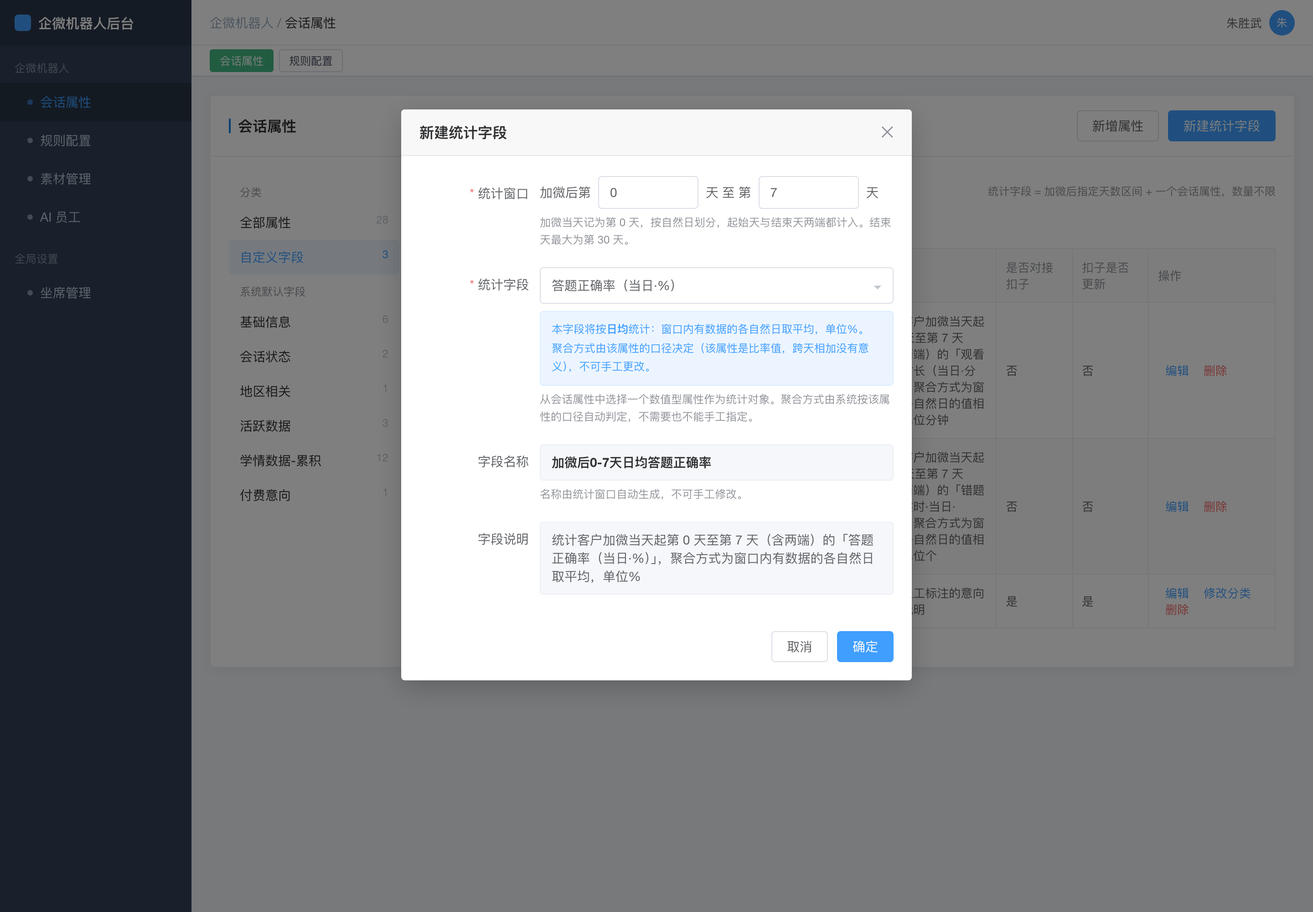
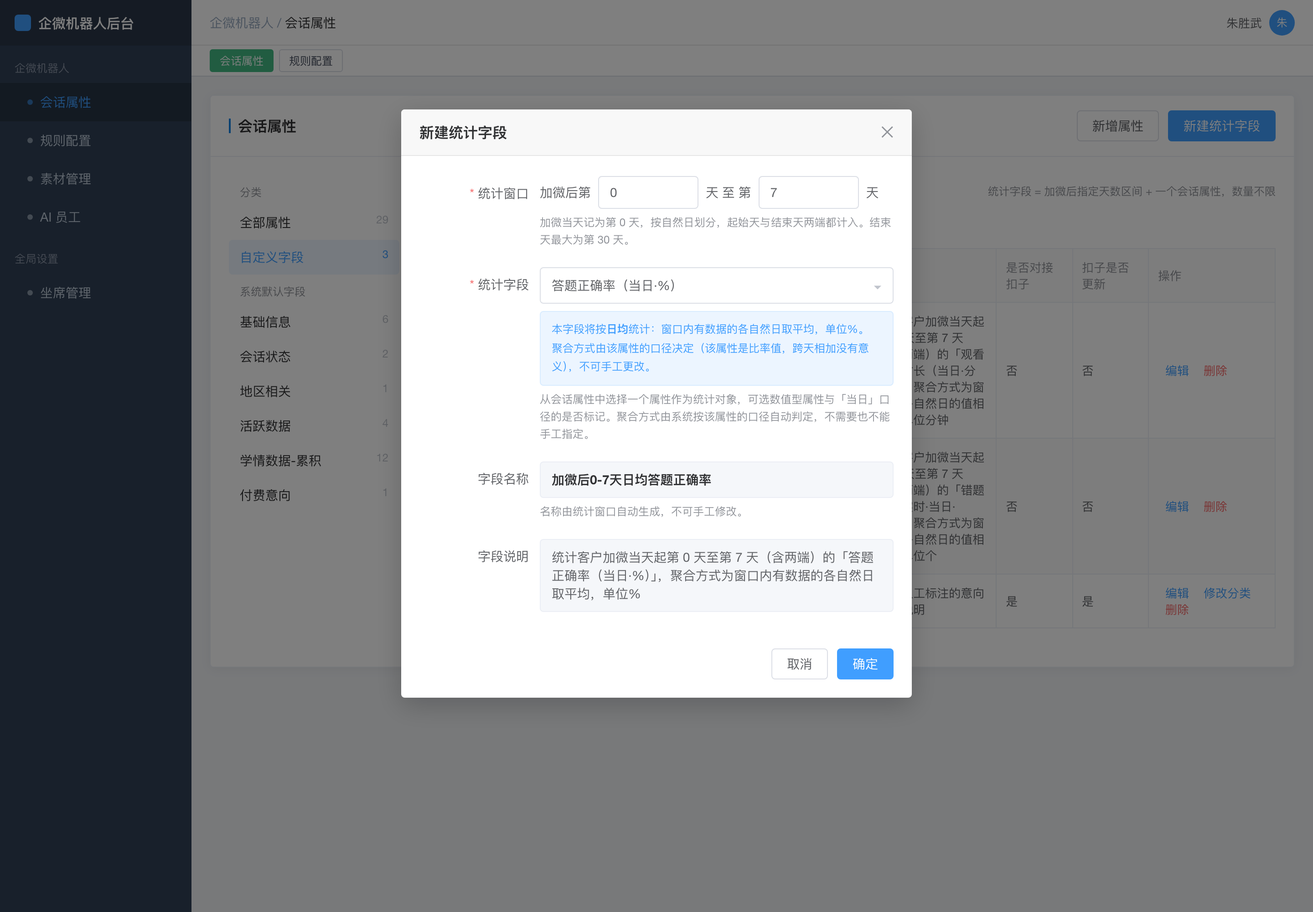
chore: 同步「自定义统计周期学习时长字段」原型与文档

Changed region(s): [[0.375, 0.465, 0.6875, 0.651], [0.2812, 0.682, 0.7188, 0.775], [0.4375, 0.434, 0.6875, 0.465]]

diff --git a/自定义统计周期学习时长字段/index.html b/自定义统计周期学习时长字段/index.html
@@ -393,7 +393,7 @@ table.el tbody tr:hover { background: #f5f7fa; }
           <div class="err-msg" id="errTarget">请选择统计字段</div>
           <div class="err-msg" id="errDup">该组合已存在字段，请勿重复创建</div>
           <div class="err-msg" id="errName">生成的名称已被占用</div>
-          <div class="hint">从会话属性中选择一个数值型属性作为统计对象。聚合方式由系统按该属性的口径自动判定，不需要也不能手工指定。</div>
+          <div class="hint">从会话属性中选择一个属性作为统计对象，可选数值型属性与「当日」口径的是否标记。聚合方式由系统按该属性的口径自动判定，不需要也不能手工指定。</div>
         </div>
       </div>
 
@@ -477,12 +477,14 @@ var seq = 12;
 
 /* 窗口聚合方式由所选会话属性的口径决定，运营不配置 */
 var AGG = {
-  sum:   { word: '累计', text: '窗口内各自然日的值相加',                 why: '该属性是每日 0 点重置的当日增量值' },
-  delta: { word: '新增', text: '窗口结束时的值减去窗口开始前一日的值',   why: '该属性是只增不减的累计快照值，直接相加会重复计算' },
-  avg:   { word: '日均', text: '窗口内有数据的各自然日取平均',           why: '该属性是比率值，跨天相加没有意义' }
+  sum:   { word: '累计', label: '累计',   text: '窗口内各自然日的值相加',                 why: '该属性是每日 0 点重置的当日增量值' },
+  delta: { word: '新增', label: '新增',   text: '窗口结束时的值减去窗口开始前一日的值',   why: '该属性是只增不减的累计快照值，直接相加会重复计算' },
+  avg:   { word: '日均', label: '日均',   text: '窗口内有数据的各自然日取平均',           why: '该属性是比率值，跨天相加没有意义' },
+  days:  { word: '天数', label: '计天数', text: '窗口内该标记为「是」的自然日天数',       why: '该属性是每日重置的是否标记，数天数才有意义', suffix: true }
 };
 
-/* 可作为统计对象的会话属性：全部数值型属性，含当日增量、累计快照与比率三类口径 */
+/* 可作为统计对象的会话属性：全部数值型属性（含当日增量、累计快照、比率三类口径）
+   与「当日」口径的布尔标记属性（按窗口数天数） */
 var ATTRS = [
   { k:'video_dur_d',   cat:'study',    name:'观看视频时长（当日·分钟）',     short:'观看视频时长',   unit:'分钟', agg:'sum',   desc:'客户观看知识点视频产生的时长，每日 0 点重置' },
   { k:'problem_dur_d', cat:'study',    name:'答题时长（当日·分钟）',         short:'答题时长',       unit:'分钟', agg:'sum',   desc:'客户做题产生的时长，每日 0 点重置' },
@@ -494,7 +496,9 @@ var ATTRS = [
   { k:'video_cnt_d',   cat:'study',    name:'观看视频课数（当日·个）',       short:'观看视频课数',   unit:'个',   agg:'sum',   desc:'客户当日有学习记录的去重知识点数' },
   { k:'right_rate_d',  cat:'study',    name:'答题正确率（当日·%）',          short:'答题正确率',     unit:'%',    agg:'avg',   desc:'客户当日答题正确率，当日没做题时为空' },
   { k:'video_dur_t',   cat:'study',    name:'观看视频时长（上线后累计·分钟）', short:'观看视频时长',  unit:'分钟', agg:'delta', desc:'客户上线后累计观看视频时长，只增不减' },
+  { k:'has_learn_d',   cat:'study',    name:'当日是否有学习（布尔）',        short:'学习',           unit:'天',   agg:'days',  desc:'客户当日是否产生学习行为，每日 0 点重置' },
   { k:'app_cnt_d',     cat:'activity', name:'打开 APP 次数（当日·次）',      short:'打开 APP 次数',  unit:'次',   agg:'sum',   desc:'客户当日前后台切换次数，每日 0 点重置' },
+  { k:'has_open_d',    cat:'activity', name:'当日是否打开 APP（布尔）',      short:'打开 APP',       unit:'天',   agg:'days',  desc:'客户当日是否打开过 APP，每日 0 点重置' },
   { k:'active_days',   cat:'activity', name:'累计活跃天数（天）',            short:'累计活跃天数',   unit:'天',   agg:'delta', desc:'客户历史累计活跃自然日天数，只增不减' },
   { k:'wecom_days',    cat:'base',     name:'加微天数（天）',                short:'加微天数',       unit:'天',   agg:'delta', desc:'加微当天起算至今的自然日天数' },
   { k:'intro_cnt_d',   cat:'pay',      name:'产介页打开次数（近1日·次）',    short:'产介页打开次数', unit:'次',   agg:'sum',   desc:'客户近 1 日打开产品介绍页的次数' }
@@ -505,18 +509,18 @@ var fields = [
   { id: 2, cat: 'custom', stat: true, start: 0, end: 7, attr: 'wrong_cnt_d',  key: '00000000000000000012', rules: 0 },
   { id: 3, cat: 'custom', stat: false, name: '意向等级备注', type: '字符串', key: '00000000000000000009', desc: '坐席人工标注的意向等级说明', coze: '是', cozeUpd: '是' }
 ];
-/* 非数值型预置属性；数值型的由 ATTRS 统一提供，保证「可选统计对象」与属性列表口径一致 */
+/* 不可作为统计对象的预置属性；可选的那些由 ATTRS 统一提供，保证两处口径一致 */
 var presetsExtra = {
   base:     [ ['客户昵称','字符串','客户在企微中的展示昵称'], ['年级','字符串','客户所处年级'], ['学段','字符串','客户所处学段'], ['注册时间','日期','客户注册洋葱账号的时间'], ['加微时间','日期','客户与坐席建立好友关系的时间'] ],
   session:  [ ['转人工','布尔','当前会话是否已转人工'], ['最近客户消息时间','数字','距离客户最近一条消息的分钟数'] ],
   region:   [ ['城市分线','字符串','客户所在城市的分线层级'] ],
-  activity: [ ['近7日是否活跃','布尔','近 7 个自然日内是否有访问'] ],
-  study:    [ ['当日是否有学习','布尔','客户当日是否产生学习行为'], ['最近错题明细','字符串','客户最近答错的题目明细'] ],
+  activity: [ ['近7日是否活跃','布尔','近 7 个自然日内是否有访问，滚动窗口口径'] ],
+  study:    [ ['最近错题明细','字符串','客户最近答错的题目明细'] ],
   pay:      []
 };
 var presets = (function(){
   var m = { base:[], session:[], region:[], activity:[], study:[], pay:[] };
-  ATTRS.forEach(function(a){ m[a.cat].push([a.name, '数字', a.desc]); });
+  ATTRS.forEach(function(a){ m[a.cat].push([a.name, a.agg === 'days' ? '布尔' : '数字', a.desc]); });
   for (var c in presetsExtra) presetsExtra[c].forEach(function(r){ m[c].push(r); });
   return m;
 })();
@@ -536,7 +540,8 @@ function sigOf(start, end, attr){ return start + '-' + end + '|' + (attr || '');
 function statName(f){
   var a = attrOf(f.attr);
   if (!a) return '';
-  return '加微后' + f.start + '-' + f.end + '天' + AGG[a.agg].word + a.short;
+  var g = AGG[a.agg], w = '加微后' + f.start + '-' + f.end + '天';
+  return g.suffix ? (w + a.short + g.word) : (w + g.word + a.short);
 }
 function statDesc(f){
   var a = attrOf(f.attr);
@@ -657,7 +662,7 @@ function renderTargetList(){
   var kw = document.getElementById('tpSearch').value.trim();
   var el = document.getElementById('tpList');
   if (tpCat === 'custom') {
-    el.innerHTML = '<div class="vp-empty">自定义字段中暂无数值型属性可选。<br/>统计字段本身不能再作为统计对象。</div>';
+    el.innerHTML = '<div class="vp-empty">自定义字段中暂无可作为统计对象的属性。<br/>统计字段本身不能再作为统计对象。</div>';
     return;
   }
   var items = ATTRS.filter(function(a){ return a.cat === tpCat && a.name.indexOf(kw) >= 0; });
@@ -665,7 +670,7 @@ function renderTargetList(){
   el.innerHTML = items.map(function(a){
     return '<div class="vp-item' + (a.k === picked ? ' sel' : '') + '" onclick="pickTarget(\'' + a.k + '\')">'
          + a.name
-         + '<div class="vp-desc">' + a.desc + '｜按窗口' + AGG[a.agg].word + '</div></div>';
+         + '<div class="vp-desc">' + a.desc + '｜按窗口' + AGG[a.agg].label + '</div></div>';
   }).join('');
 }
 function pickTarget(k){
@@ -682,7 +687,7 @@ function renderTargetPicked(){
   var box = document.getElementById('aggBox');
   box.classList.toggle('show', !!a);
   if (a) {
-    box.innerHTML = '本字段将按<b>' + AGG[a.agg].word + '</b>统计：' + AGG[a.agg].text
+    box.innerHTML = '本字段将按<b>' + AGG[a.agg].label + '</b>统计：' + AGG[a.agg].text
                   + '，单位' + a.unit + '。<br/>聚合方式由该属性的口径决定（' + AGG[a.agg].why + '），不可手工更改。';
   }
 }

diff --git a/自定义统计周期学习时长字段/PRD-自定义统计周期学习时长字段.md b/自定义统计周期学习时长字段/PRD-自定义统计周期学习时长字段.md
@@ -6,7 +6,7 @@
 |--------|----------|----------|--------|
 | v1.0 | 2026-09-01 | 初稿 | AI PRD Writer |
 | v1.1 | 2026-09-07 | 统计口径从固定的「全部学习时长」改为可勾选组合：新增「统计字段」多选项，支持观看视频时长、答题时长、看题型时长任意组合求和 | AI PRD Writer |
-| v1.2 | 2026-09-07 | 统计对象改为直接从会话属性中选取：统计字段由三项时长的勾选组合，改为在会话属性中单选一个数值型属性，窗口聚合方式由该属性口径自动判定 | AI PRD Writer |
+| v1.2 | 2026-09-07 | 统计对象改为直接从会话属性中选取：统计字段由三项时长的勾选组合，改为在会话属性中单选一个属性，可选范围为全部数值型属性与「当日」口径的是否标记，窗口聚合方式由该属性口径自动判定 | AI PRD Writer |
 
 ## 二、需求概述
 
@@ -20,11 +20,12 @@
 |------|------|
 | 加微时间 | 客户与坐席建立企微好友关系的时刻 |
 | 统计窗口 | 以加微当天为第 0 天起算的一段自然日区间，由起始天与结束天两个数字确定，两端都包含在内 |
-| 统计对象 | 运营为一个统计字段选定的那个会话属性，取值范围为全部数值型会话属性 |
-| 窗口聚合方式 | 把统计对象在窗口内的表现折算成一个数的算法，由统计对象自身的口径决定，分累计、新增、日均三种，运营不参与配置 |
+| 统计对象 | 运营为一个统计字段选定的那个会话属性，取值范围为全部数值型会话属性与「当日」口径的是否标记属性 |
+| 窗口聚合方式 | 把统计对象在窗口内的表现折算成一个数的算法，由统计对象自身的口径决定，分累计、新增、日均、天数四种，运营不参与配置 |
 | 当日增量型 | 每日零点重置、只反映当天新增量的会话属性，如「观看视频时长（当日·分钟）」，窗口聚合方式为累计 |
 | 累计快照型 | 只增不减的历史累计会话属性，如「观看视频时长（上线后累计·分钟）」，窗口聚合方式为新增 |
 | 比率型 | 取值为百分比的会话属性，如「答题正确率（当日·%）」，窗口聚合方式为日均 |
+| 日标记型 | 每日零点重置、取值为是或否的会话属性，如「当日是否有学习（布尔）」，窗口聚合方式为天数 |
 | 统计字段 | 本次新增的一类会话属性，取值由系统按「统计窗口 + 统计对象」自动计算得出，运营不能手工填写 |
 | 冻结 | 统计窗口的结束天已过去后，该字段取值不再随新数据变化 |
 
@@ -34,12 +35,12 @@
 |------|----------|----------|
 | 1 | 会话属性页 — 新建入口 | 在页面操作区新增「新建统计字段」入口 |
 | 2 | 会话属性页 — 新建统计字段弹窗 | 新增弹窗，先配统计窗口起止天，再从会话属性中选择统计对象，并实时预览聚合方式、名称与说明 |
-| 3 | 会话属性页 — 统计对象选择面板 | 新增面板，按会话属性分类展示全部数值型属性，支持搜索与单选，每项标注该属性将采用的窗口聚合方式 |
+| 3 | 会话属性页 — 统计对象选择面板 | 新增面板，按会话属性分类展示可作为统计对象的属性，支持搜索与单选，每项标注该属性将采用的窗口聚合方式 |
 | 4 | 会话属性页 — 属性列表 | 统计字段归入「自定义字段」分类展示，字段类型显示为数字，描述中体现统计对象与聚合方式 |
 | 5 | 会话属性页 — 编辑统计字段弹窗 | 新增弹窗，允许修改统计窗口与统计对象，修改前二次确认 |
 | 6 | 会话属性页 — 删除统计字段 | 沿用现有自定义字段删除交互 |
 | 7 | 规则配置页 — 条件变量选择 | 统计字段在条件变量选择面板中可选，操作符沿用现有配置 |
-| 8 | 取值计算 | 新增按「统计窗口 + 统计对象」计算取值的逻辑，含累计、新增、日均三种聚合算法 |
+| 8 | 取值计算 | 新增按「统计窗口 + 统计对象」计算取值的逻辑，含累计、新增、日均、天数四种聚合算法 |
 
 ## 五、业务流程图
 
@@ -48,7 +49,7 @@
 ```mermaid
 flowchart TD
     A[运营在会话属性页点击新建统计字段] --> B[填写统计窗口起始天与结束天]
-    B --> C[从会话属性中选择一个数值型属性作为统计对象]
+    B --> C[从会话属性中选择一个属性作为统计对象]
     C --> D[系统按该属性口径自动判定窗口聚合方式并展示]
     D --> E{窗口与统计对象校验是否通过}
     E -->|未通过| F[弹窗内提示具体错误原因]
@@ -98,25 +99,26 @@ flowchart TD
 5. 选中「答题时长（当日·分钟）」，弹窗内出现蓝色说明「本字段将按累计统计：窗口内各自然日的值相加」，名称预览为「加微后0-7天累计答题时长」。
 6. 改选「观看视频时长（上线后累计·分钟）」，说明变为「按新增统计：窗口结束时的值减去窗口开始前一日的值」，名称变为「加微后0-7天新增观看视频时长」。
 7. 再改选「答题正确率（当日·%）」，说明变为「按日均统计：窗口内有数据的各自然日取平均」，名称变为「加微后0-7天日均答题正确率」。
-8. 重新打开面板并切到「活跃数据」分类，可看到统计对象不限于学情数据，「打开 APP 次数」「累计活跃天数」同样可选。
-9. 选中「打开 APP 次数（当日·次）」后把起始天改为 3、结束天改为 10，观察名称与说明实时刷新。
-10. 把起始天改为 10、结束天改为 3，出现红字「结束天不能早于起始天」，「确定」按钮置灰。
-11. 把结束天改为 45，出现红字「结束天需为 0 到 30 之间的整数」。
-12. 把窗口改为 0 至 7 并选中「观看视频时长（当日·分钟）」，出现红字「该统计窗口与统计字段的组合已存在字段「加微后0-7天累计观看视频时长」，请勿重复创建」。
-13. 改选「错题数（离线·日·个）」，出现红字提示生成的名称「加微后0-7天累计错题数」已被占用、该字段统计的是「错题数（实时·当日·个）」，提交仍被拦截。
-14. 改选「看题型时长（当日·分钟）」，两条提示均消失、「确定」恢复可点，说明窗口相同但统计对象不同时允许创建。
-15. 把窗口改为 8 至 14 后点击「确定」，弹窗关闭并提示创建成功，列表定位到「自定义字段」分类并回显新字段。
-16. 在列表中点击「加微后0-7天累计观看视频时长」行的「编辑」，把结束天改为 14 并改选「错题数（实时·当日·个）」，弹窗顶部出现橙色影响提示。
-17. 点击「确定」弹出二次确认弹窗，点「确认修改」后列表中的字段名称与描述同步更新。
-18. 点击任一统计字段的「删除」，二次确认弹窗中展示「当前有 2 条规则正在使用该字段」。
-19. 再次打开新建弹窗并修改任一输入项后点「取消」，弹出「填写内容尚未保存，确认关闭？」。
-20. 顶部切到「规则配置」，点击触发条件行的变量选择框，「自定义字段」分类下可看到刚创建的统计字段，每项下方注明各自的统计口径。
-21. 选中一个统计字段，条件行下方提示比较值单位与该字段统计对象一致；比较值输入 30.5，出现红字「请输入整数」。
-22. 把操作符切换为「为空」，比较值输入框自动置灰不可填。
+8. 改选「当日是否有学习（布尔）」，说明变为「按计天数统计：窗口内该标记为「是」的自然日天数」，名称变为「加微后0-7天学习天数」，即分阶段转人工常用的学习天数指标。
+9. 重新打开面板并切到「活跃数据」分类，可看到统计对象不限于学情数据，「打开 APP 次数」「当日是否打开 APP」「累计活跃天数」同样可选。
+10. 选中「打开 APP 次数（当日·次）」后把起始天改为 3、结束天改为 10，观察名称与说明实时刷新。
+11. 把起始天改为 10、结束天改为 3，出现红字「结束天不能早于起始天」，「确定」按钮置灰。
+12. 把结束天改为 45，出现红字「结束天需为 0 到 30 之间的整数」。
+13. 把窗口改为 0 至 7 并选中「观看视频时长（当日·分钟）」，出现红字「该统计窗口与统计字段的组合已存在字段「加微后0-7天累计观看视频时长」，请勿重复创建」。
+14. 改选「错题数（离线·日·个）」，出现红字提示生成的名称「加微后0-7天累计错题数」已被占用、该字段统计的是「错题数（实时·当日·个）」，提交仍被拦截。
+15. 改选「看题型时长（当日·分钟）」，两条提示均消失、「确定」恢复可点，说明窗口相同但统计对象不同时允许创建。
+16. 把窗口改为 8 至 14 后点击「确定」，弹窗关闭并提示创建成功，列表定位到「自定义字段」分类并回显新字段。
+17. 在列表中点击「加微后0-7天累计观看视频时长」行的「编辑」，把结束天改为 14 并改选「错题数（实时·当日·个）」，弹窗顶部出现橙色影响提示。
+18. 点击「确定」弹出二次确认弹窗，点「确认修改」后列表中的字段名称与描述同步更新。
+19. 点击任一统计字段的「删除」，二次确认弹窗中展示「当前有 2 条规则正在使用该字段」。
+20. 再次打开新建弹窗并修改任一输入项后点「取消」，弹出「填写内容尚未保存，确认关闭？」。
+21. 顶部切到「规则配置」，点击触发条件行的变量选择框，「自定义字段」分类下可看到刚创建的统计字段，每项下方注明各自的统计口径。
+22. 选中一个统计字段，条件行下方提示比较值单位与该字段统计对象一致；比较值输入 30.5，出现红字「请输入整数」。
+23. 把操作符切换为「为空」，比较值输入框自动置灰不可填。
 
-关键态截图：`需求汇总/自定义统计周期学习时长字段/proto-shots/`，共 26 张
+关键态截图：`需求汇总/自定义统计周期学习时长字段/proto-shots/`，共 27 张
 
-洋葱内网链接（需飞连）：https://minio.yc345.tv/onionext/prototypes/custom-period-study-duration/index.html
+洋葱内网链接（需飞连）：https://minio.yc345.tv/onionext/prototypes/custom-period-study-duration/index-20260907091653033539.html
 
 ## 七、功能需求详细描述
 
@@ -134,8 +136,8 @@ flowchart TD
 |---|---|---|---|---|---|
 | 统计窗口起始天 | 统计区间的第一天，以加微当天为第 0 天 | 是 | 数字输入框 | 默认值为 0。仅允许输入 0 到 30 之间的整数。输入非整数或超出范围时，输入框下方红字提示「起始天需为 0 到 30 之间的整数」 | 加微当天记为第 0 天，区间包含起始天当天 |
 | 统计窗口结束天 | 统计区间的最后一天，以加微当天为第 0 天 | 是 | 数字输入框 | 默认值为 7。仅允许输入 0 到 30 之间的整数。小于起始天时，输入框下方红字提示「结束天不能早于起始天」 | 区间包含结束天当天，即起始天到结束天两端都算 |
-| 统计字段 | 选择哪个会话属性作为本字段的统计对象 | 是 | 单选选择框 | 默认为空，占位文案「请选择会话属性」。点击后在下方展开会话属性选择面板（见 7.3）。选中后选择框展示该属性的完整名称。未选择时下方红字提示「请选择统计字段」 | 一个统计字段只对应一个会话属性，不做多选与组合运算。可选范围为全部数值型会话属性 |
-| 聚合方式说明 | 告知运营本字段将以何种算法把统计对象折算成一个数 | — | 只读提示块 | 选中统计对象后在其下方展示蓝色提示块，内容为「本字段将按{聚合词}统计：{算法说明}，单位{单位}。聚合方式由该属性的口径决定（{判定依据}），不可手工更改」。未选中时不展示 | 聚合方式由系统按统计对象口径自动判定，运营既不需要也不能配置。三种聚合方式见 7.8 |
+| 统计字段 | 选择哪个会话属性作为本字段的统计对象 | 是 | 单选选择框 | 默认为空，占位文案「请选择会话属性」。点击后在下方展开会话属性选择面板（见 7.3）。选中后选择框展示该属性的完整名称。未选择时下方红字提示「请选择统计字段」 | 一个统计字段只对应一个会话属性，不做多选与组合运算。可选范围为全部数值型会话属性与「当日」口径的是否标记属性 |
+| 聚合方式说明 | 告知运营本字段将以何种算法把统计对象折算成一个数 | — | 只读提示块 | 选中统计对象后在其下方展示蓝色提示块，内容为「本字段将按{聚合词}统计：{算法说明}，单位{单位}。聚合方式由该属性的口径决定（{判定依据}），不可手工更改」。未选中时不展示 | 聚合方式由系统按统计对象口径自动判定，运营既不需要也不能配置。四种聚合方式见 7.8 |
 | 字段名称预览 | 展示系统根据统计窗口与统计对象自动生成的字段名称 | — | 只读文本 | 统计窗口或统计对象变化时实时刷新。运营不能手工修改 | 名称由「窗口 + 统计对象」决定，避免名称与实际口径不一致。生成规则见下方 |
 | 字段说明预览 | 展示系统自动生成的字段说明 | — | 只读文本 | 内容为「统计客户加微当天起第{起始天}天至第{结束天}天（含两端）的「{统计对象完整名称}」，聚合方式为{算法说明}，单位{单位}」 | 与字段名称同步刷新 |
 | 确定 | 提交创建 | — | 按钮 | 统计窗口填写完整、已选择统计字段且全部校验通过时按钮可点击；否则**置灰**，鼠标悬浮提示「请先填写正确的统计窗口并选择统计字段」。点击后按钮进入加载中并禁用，创建成功后弹窗关闭、属性列表刷新并定位到「自定义字段」分类、顶部提示「统计字段创建成功」 | 创建失败时弹窗保持打开、已填内容保留，顶部提示「创建失败，请重试」 |
@@ -143,15 +145,16 @@ flowchart TD
 
 **字段名称生成规则：**
 
-名称格式固定为「加微后{起始天}-{结束天}天{聚合词}{统计对象简名}」。
-
-| 序号 | 统计对象口径 | 聚合词 | 示例 |
+| 序号 | 统计对象口径 | 名称格式 | 示例 |
 |---|---|---|---|
-| 1 | 当日增量型 | 累计 | 观看视频时长（当日·分钟）→ 加微后0-7天累计观看视频时长 |
-| 2 | 累计快照型 | 新增 | 观看视频时长（上线后累计·分钟）→ 加微后0-7天新增观看视频时长 |
-| 3 | 比率型 | 日均 | 答题正确率（当日·%）→ 加微后0-7天日均答题正确率 |
+| 1 | 当日增量型 | 加微后{起始天}-{结束天}天累计{简名} | 观看视频时长（当日·分钟）→ 加微后0-7天累计观看视频时长 |
+| 2 | 累计快照型 | 加微后{起始天}-{结束天}天新增{简名} | 观看视频时长（上线后累计·分钟）→ 加微后0-7天新增观看视频时长 |
+| 3 | 比率型 | 加微后{起始天}-{结束天}天日均{简名} | 答题正确率（当日·%）→ 加微后0-7天日均答题正确率 |
+| 4 | 日标记型 | 加微后{起始天}-{结束天}天{简名}天数 | 当日是否有学习（布尔）→ 加微后0-7天学习天数 |
 
-统计对象简名为该会话属性名称去掉口径括注后的部分，如「观看视频时长（当日·分钟）」的简名为「观看视频时长」。括注只说明原属性自身的周期与单位，放进统计字段名称里会与统计窗口的周期相互矛盾，所以不带入。
+前三种聚合词放在简名之前，日标记型的「天数」放在简名之后，因为「累计是否有学习」不成话，而「学习天数」才是运营口中的说法。
+
+统计对象简名为该会话属性名称去掉口径括注后的部分，如「观看视频时长（当日·分钟）」的简名为「观看视频时长」。括注只说明原属性自身的周期与单位，放进统计字段名称里会与统计窗口的周期相互矛盾，所以不带入。日标记型属性的简名再去掉「当日是否」，如「当日是否有学习」的简名为「学习」、「当日是否打开 APP」的简名为「打开 APP」。
 
 **创建校验规则：**
 
@@ -177,16 +180,18 @@ flowchart TD
 | 搜索框 | 按名称检索会话属性 | 否 | 输入框 | 位于面板顶部，占位文案「搜索会话属性名称」。输入时右侧列表实时过滤，匹配方式为名称包含关键词 | 搜索范围为当前选中分类下的属性 |
 | 分类栏 | 按会话属性分类切换 | — | 列表 | 位于面板左侧，展示「学情数据-累积」「活跃数据」「基础信息」「付费意向」「自定义字段」。默认选中「学情数据-累积」 | 分类与会话属性页左侧分类栏保持一致，不展示没有可选属性的分类 |
 | 属性列表 | 展示并选择统计对象 | 是 | 单选列表 | 位于面板右侧。每项主行为属性完整名称，副行以浅灰小字展示该属性的口径说明与「按窗口{聚合词}」。点击某项即选中并收起面板，选中项在再次打开时高亮 | 单选，点击新的一项直接替换原选择 |
-| 空态 | 分类下无可选属性时的兜底 | — | 文案 | 「自定义字段」分类下展示「自定义字段中暂无数值型属性可选。统计字段本身不能再作为统计对象」；其余分类搜索无结果时展示「没有匹配的会话属性」 | — |
+| 空态 | 分类下无可选属性时的兜底 | — | 文案 | 「自定义字段」分类下展示「自定义字段中暂无可作为统计对象的属性。统计字段本身不能再作为统计对象」；其余分类搜索无结果时展示「没有匹配的会话属性」 | — |
 
 **可选属性范围：**
 
 | 序号 | 规则 |
 |---|---|
 | 1 | 全部**数值型**会话属性均可选，不限分类，也不限该属性自身是当日、当周还是累计口径 |
-| 2 | 字符串型、布尔型、日期型会话属性不可选，不在面板中展示 |
-| 3 | 统计字段本身虽然是数值型，但不可被再次选作统计对象，避免嵌套定义 |
-| 4 | 可选范围随会话属性的增减自动变化，新增数值型属性后无需额外配置即可被选中 |
+| 2 | **「当日」口径的是否标记属性**（布尔型）可选，如「当日是否有学习」「当日是否打开 APP」，按窗口内标记为「是」的天数统计 |
+| 3 | 滚动窗口口径的布尔属性不可选，如「近7日是否活跃」。它在某天为真只表示过去 7 天内活跃过，不是当天独立的标记，数天数会重复计入同一次活跃 |
+| 4 | 字符串型、日期型会话属性不可选，不在面板中展示 |
+| 5 | 统计字段本身虽然是数值型，但不可被再次选作统计对象，避免嵌套定义 |
+| 6 | 可选范围随会话属性的增减自动变化，新增可选属性后无需额外配置即可被选中 |
 
 ### 7.4 会话属性页 — 属性列表中的统计字段
 
@@ -258,11 +263,14 @@ flowchart TD
 
 聚合方式解决的是「把统计对象在窗口内每一天的表现折算成一个数」这件事。不同口径的会话属性折算算法不同，由系统按统计对象自动判定，运营不参与配置也无法修改。
 
-| 聚合方式 | 适用的统计对象口径 | 算法 | 判定依据 | 名称中的聚合词 |
+| 聚合方式 | 适用的统计对象口径 | 算法 | 判定依据 | 单位 |
 |---|---|---|---|---|
-| 累计 | 当日增量型：每日零点重置、只反映当天新增量的属性 | 窗口内各自然日的值相加 | 该属性是每日零点重置的当日增量值，逐日相加即窗口内总量 | 累计 |
-| 新增 | 累计快照型：只增不减的历史累计属性 | 窗口结束当日的值，减去窗口起始天前一日的值 | 该属性是只增不减的累计快照值，直接相加会把同一份历史量重复计算多次 | 新增 |
-| 日均 | 比率型：取值为百分比的属性 | 窗口内**有数据**的各自然日取平均，无数据的天不计入分母 | 该属性是比率值，跨天相加没有意义 | 日均 |
+| 累计 | 当日增量型：每日零点重置、只反映当天新增量的属性 | 窗口内各自然日的值相加 | 该属性是每日零点重置的当日增量值，逐日相加即窗口内总量 | 继承统计对象 |
+| 新增 | 累计快照型：只增不减的历史累计属性 | 窗口结束当日的值，减去窗口起始天前一日的值 | 该属性是只增不减的累计快照值，直接相加会把同一份历史量重复计算多次 | 继承统计对象 |
+| 日均 | 比率型：取值为百分比的属性 | 窗口内**有数据**的各自然日取平均，无数据的天不计入分母 | 该属性是比率值，跨天相加没有意义 | 继承统计对象 |
+| 天数 | 日标记型：每日零点重置、取值为是或否的属性 | 窗口内该标记为「是」的自然日天数 | 该属性是每日重置的是否标记，数天数才有意义 | 天 |
+
+天数聚合方式让运营可以直接拿到「加微后 0-7 天学习了几天」这类指标。分阶段转人工判定客户是否持续投入时，学习天数往往比学习时长更能反映粘性：一个客户在第 0 天集中学了 120 分钟然后再没打开过，和连续 7 天每天学 20 分钟，累计时长接近但意义完全不同。
 
 为什么不让运营自选聚合方式：同一个统计对象只有一种算法能得出有意义的结果。对「上线后累计答题数」这类快照值做求和，会把历史存量在窗口内的每一天重复计入，得到一个远大于真实值的数；对「答题正确率」做求和，得到的是一个没有物理含义的百分数之和。把选择权交给运营只会引入错误配置，因此由系统按口径直接确定。
 
@@ -273,10 +281,10 @@ flowchart TD
 | 1 | 统计起算点 | 客户与坐席建立企微好友关系的时刻所在的自然日，记为第 0 天 |
 | 2 | 天的划分 | 按自然日划分，每日零点分界，以北京时间为准 |
 | 3 | 区间闭合 | 起始天与结束天两端都计入统计范围 |
-| 4 | 可选统计对象 | 全部数值型会话属性，不限分类与口径。统计字段本身不可被选作统计对象 |
+| 4 | 可选统计对象 | 全部数值型会话属性与「当日」口径的是否标记属性，不限分类。统计字段本身不可被选作统计对象 |
 | 5 | 统计内容 | 统计对象在统计区间内按 7.8 对应聚合方式折算出的数值 |
 | 6 | 单位 | 继承统计对象的单位，如分钟、个、次、% |
-| 7 | 取整 | 累计与新增两种方式的结果取整数；日均方式的结果四舍五入到整数 |
+| 7 | 取整 | 累计、新增、天数三种方式的结果取整数；日均方式的结果四舍五入到整数 |
 | 8 | 更新时机 | 统计对象的数据到达时实时更新，无需等待次日结算。其他属性产生数据时该字段取值不变 |
 | 9 | 窗口进行中的取值 | 展示截至当前的部分值，随客户后续行为变化 |
 | 10 | 窗口结束后的取值 | 结束天次日零点之后取值冻结，不再随新数据变化 |
@@ -292,8 +300,8 @@ flowchart TD
 | 序号 | 场景 | 系统行为 |
 |---|---|---|
 | 1 | 起始天与结束天填写为同一个数字 | 允许保存，统计该单日的取值，名称形如「加微后3-3天累计观看视频时长」 |
-| 2 | 客户在统计窗口内没有产生统计对象的任何数据（累计或新增方式） | 取值为 0，不是空值，数值比较类条件按 0 参与判定 |
-| 3 | 客户在统计窗口内没有产生统计对象的任何数据（日均方式） | 取值为**空**而不是 0。比率型属性没有数据时算不出平均值，0% 会被误读为表现极差 |
+| 2 | 客户在统计窗口内没有产生统计对象的任何数据（累计、新增或天数方式） | 取值为 0，不是空值，数值比较类条件按 0 参与判定 |
+| 3 | 客户在统计窗口内没有产生统计对象的任何数据（日均方式） | 取值为**空**而不是 0。比率型属性没有数据时算不出平均值，0% 会被误读为表现极差；而累计、新增、天数三种方式的 0 就是「一分钟没学」「一天没学」的真实含义，与空值不冲突 |
 | 4 | 统计对象为累计快照型，且客户在窗口起始天前一日没有该属性的取值 | 起始基准按 0 处理，取值即窗口结束当日的值 |
 | 5 | 客户在窗口开始前已经产生数据 | 窗口开始前的数据不计入该字段 |
 | 6 | 客户在窗口结束后继续产生数据 | 不再计入该字段 |
